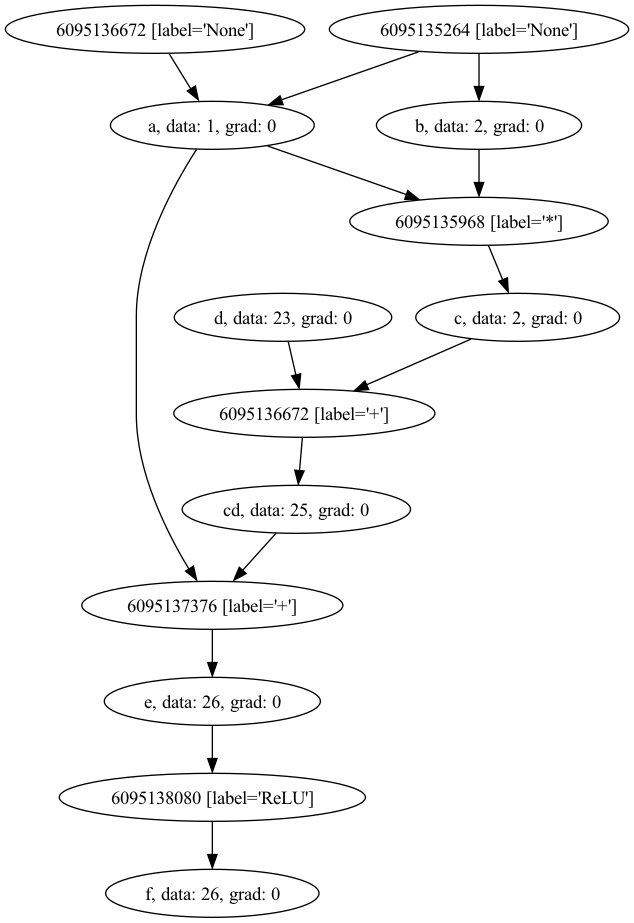
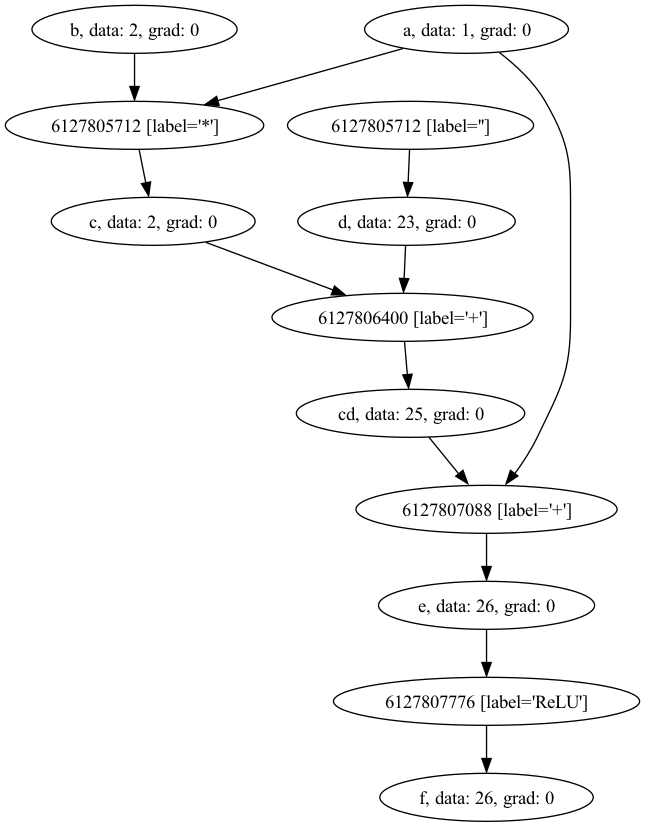
Fix bug

diff --git a/Graph.cpp b/Graph.cpp
@@ -11,7 +11,7 @@ void Graph::topo(Value *v, EdgeList &eList) {
         topo(v->prev[i], eList);
         eList.push_back({v->prev[i]->getGraphName(), '"' + to_string((long) &v) + " [label=" + "'" + operatorStringMap[v->op] + "'" + "]" + '"'});
     }
-    if (operatorStringMap[v->op].size() > 0) eList.push_back({'"' + to_string((long) &v) + " [label=" + "'" + operatorStringMap[v->op] + "'" + "]" + '"', v->getGraphName()});
+    if (v->op != Operator::NONE) eList.push_back({'"' + to_string((long) &v) + " [label=" + "'" + operatorStringMap[v->op] + "'" + "]" + '"', v->getGraphName()});
 
 }
 
